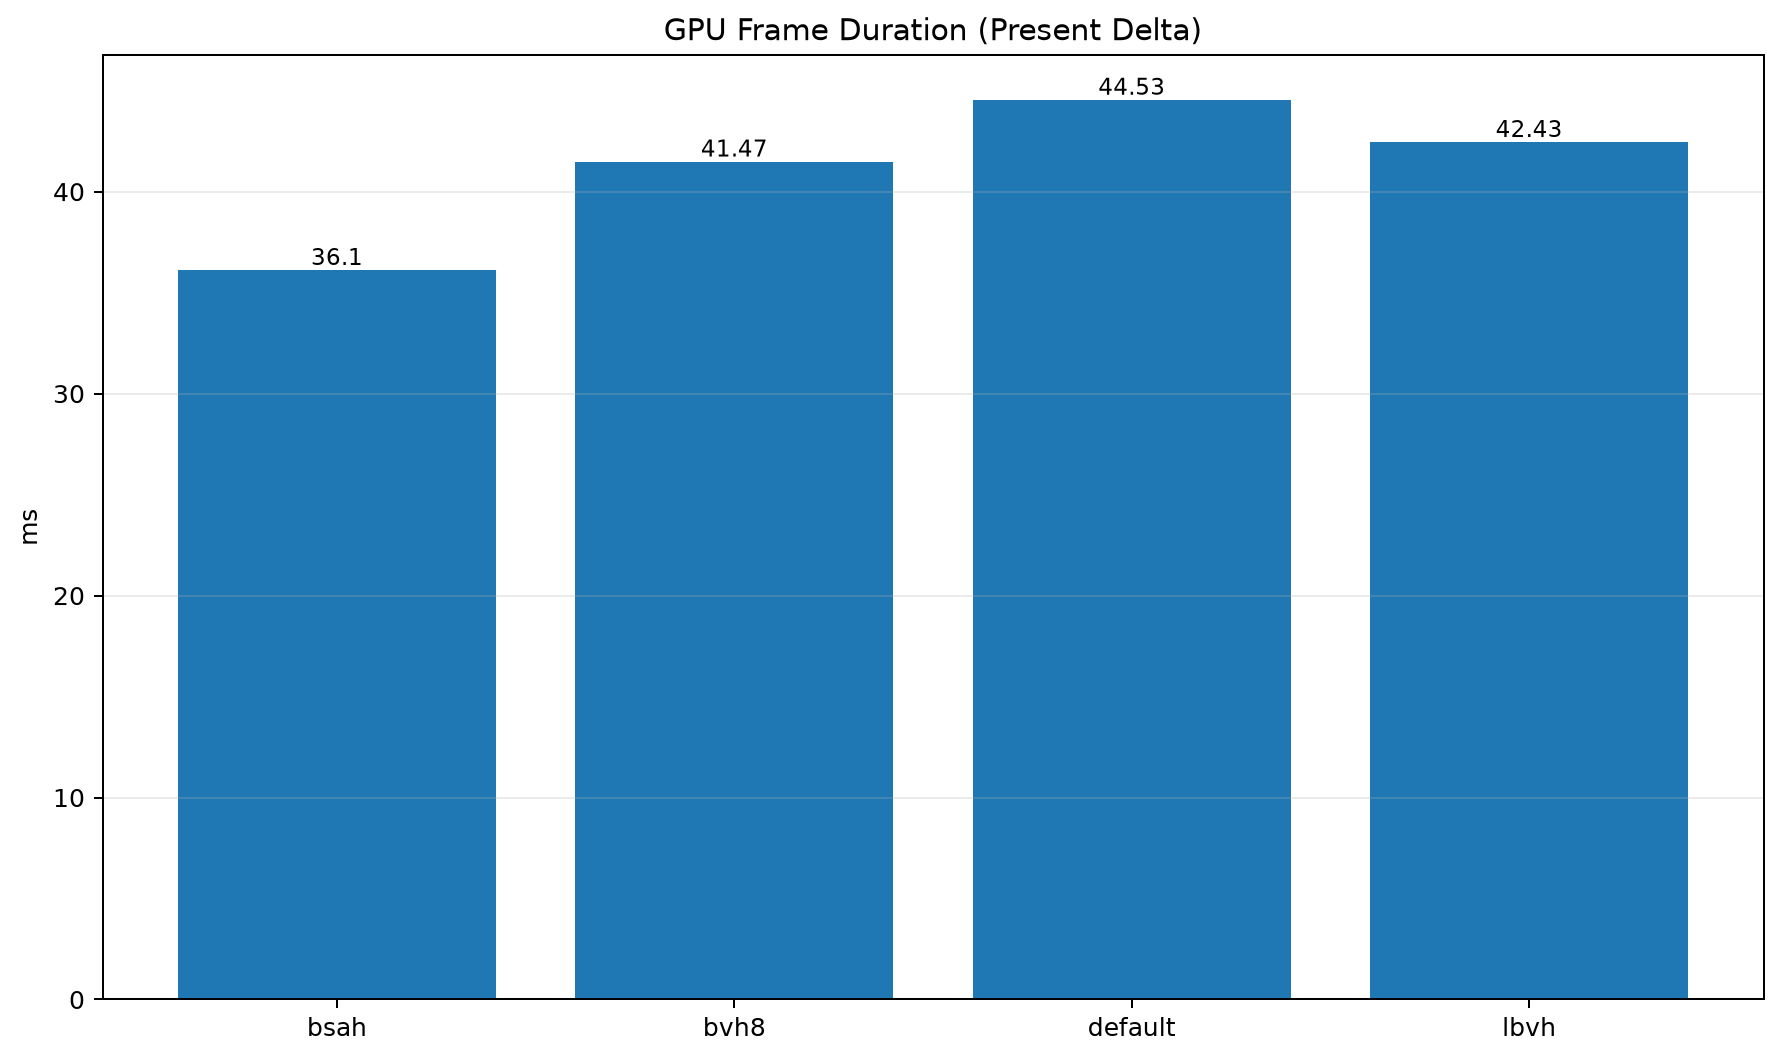
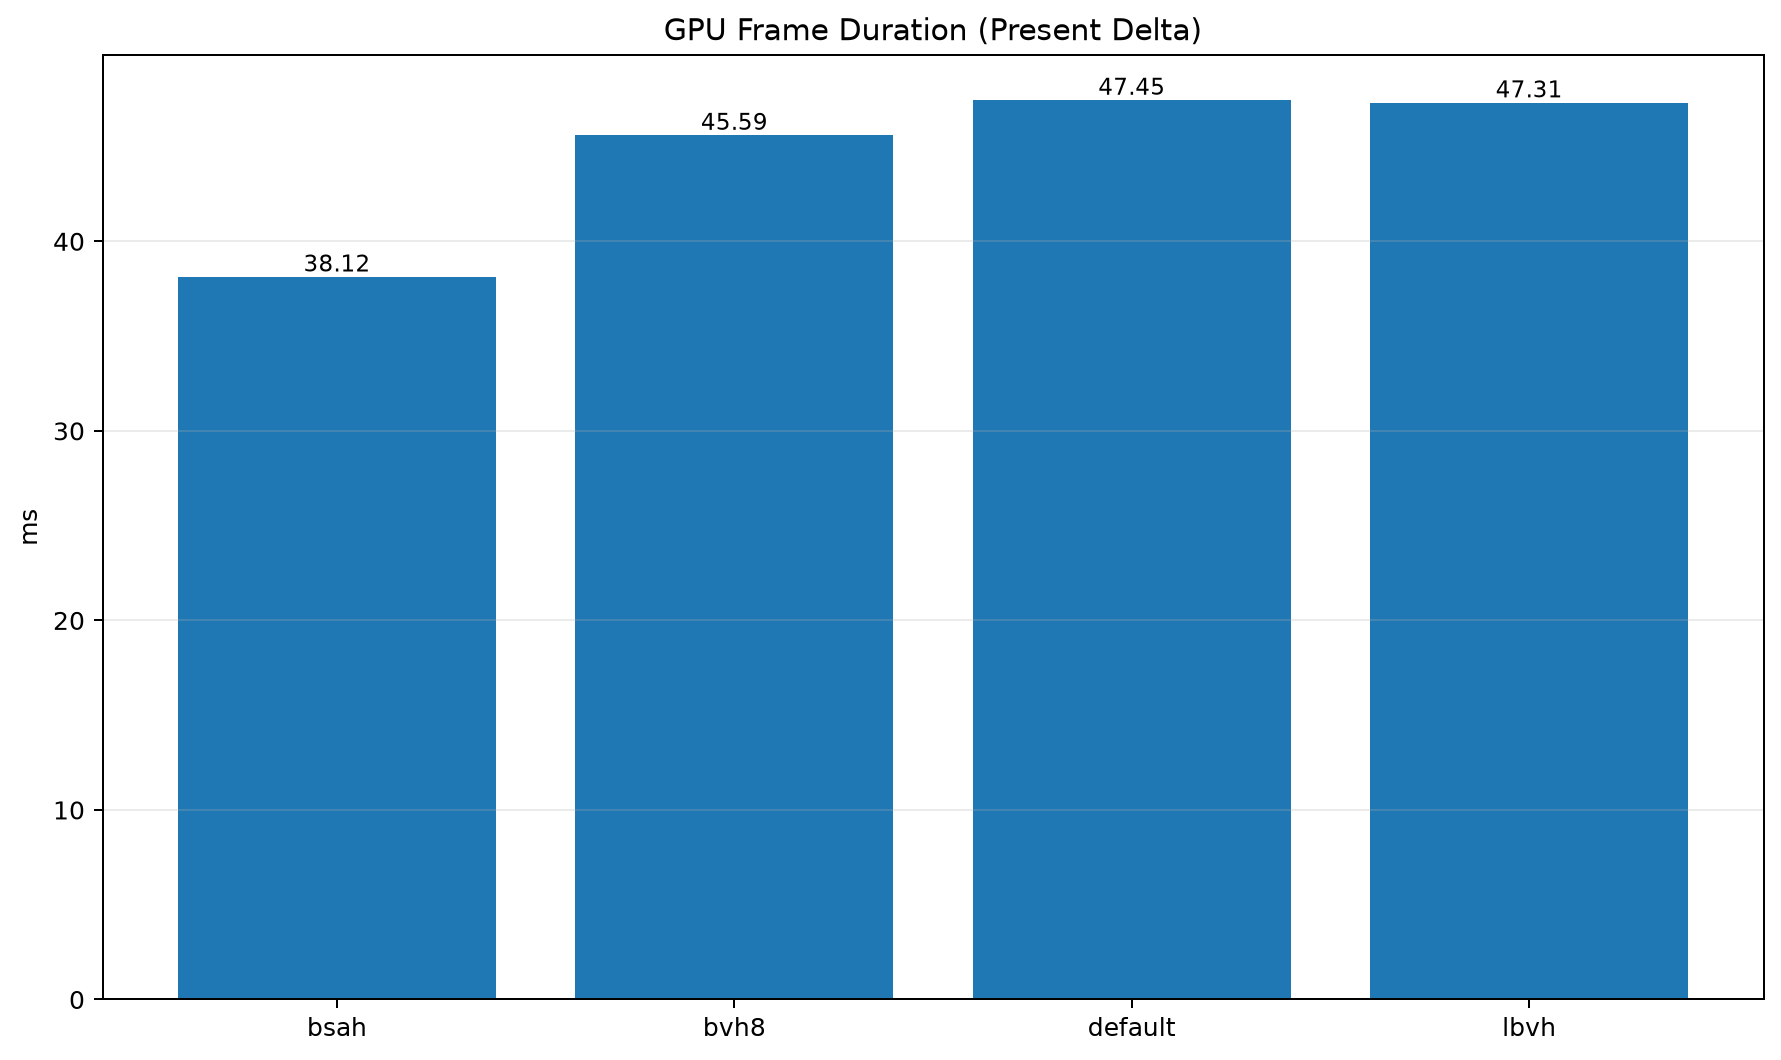
imgs

diff --git a/conteudo/conclusao.tex b/conteudo/conclusao.tex
@@ -3,14 +3,15 @@
 Neste capitulo sera apresentado os resultados e as discucoes sobre as simulacoes das \gls{bvh}.
 
 
-\subsection{Tamnaho da esrtutura}
+\subsection{Consumo de Memoria}
 
+vamos comecar observando o tamanho das estruturas geradas
 
 \subsection{\gls{cpu}}
 
 \subsubsection{\gls{blas}}
 
-Comencando com as metricas de construcao das \gls{blas}. Diferente da \gls{tlas} que varia pouco o seu tamanho, aqui temos estruturas que representam de oito vertices ate mais de mil, por isso foi feito uma media e a escala vai estar menor que a \gls{tlas}.
+Comencando com as metricas de construcao das \gls{blas}. Diferente da \gls{tlas} que varia pouco o seu tamanho, aqui temos estruturas que representam de oito vertices ate mais de mil, por isso que a diferenca da media pode ser muito maior.
 
 Analisando a figura \ref{blas_build_cpu}, facilmente reparamos que \gls{bsah} levou mais de duas vezes o tempo das demais, com o objetivo de gerar uma arvore de melhor qualidade. E a \gls{bvh8} consegui ser 40\% mais rapida que as demais, o que deve ser justificado por gerar uma arvore mais rasa o que reduz a quantidade de repeticoes para construir a arvore.
 
@@ -66,7 +67,9 @@ O grafico de tempo de upload não sera apresentado,o motivo é que nem todo o te
 
 Observando a diferenca entre cada \gls{bvh} no grafico de colunas podemos analisar como elas influenciaram cada execucao. Como o Sistema estava sem nenhuma limitacao de frames, a duracao do frame esta limitada a capacidade da \gls{gpu} de gerar um novo frame.
 
-Ate fiz alguns testes anteriores e quando a cena estava com menos de 10 instancias, foi possivel chegar a duracao de frames menores de que 5 ms.
+Olhando a imagem podemos perceber uma vantagem da \gls{bsah}, isso mostrar que investir recurso de \gls{cpu} na qualidade da arvore vale a penas, precisamos manter em mante que esse investimento nao pode ultrapacar o valor da arvore, e no caso ela so vale se estiver pronta quando a \gls{gpu} precisar dela.
+
+A \gls{bvh8} mostrou um desenpenho levemente melhor, seria interesantes testar outras distribuicoes como \gls{bvh4} ou \gls{bvh16}, ou aplicar uma heuristica para achar uma tamanho de arvore ideal para a situacao.
 
 \begin{figure}[htb]
     \caption{Grafico de barras sobre tempo medio de producao do quadro em \gls{gpu}}
@@ -93,6 +96,82 @@ Em questao do frame de \gls{cpu}, a aplicacao n tem uma forma de gerar mais que 
         }
     }
 \end{figure}
+
+Ate fiz alguns testes anteriores e quando a cena estava com menos de 10 instancias, foi possivel chegar a duracao de frames menores de que 5 ms.
+
+
+
+\subsection{Ocupação \gls{sm} e \textit{warps}}
+
+
+
+\subsubsection{\textit{warps}}
+
+Uma forma de analisar o comportamento dos \glspl{sm} durante a execução é observar a quantidade de \textit{warps} de pixels. Pode ser analisado o número médio de \textit{warps} por ciclo. Essa informação permite relacionar a quantidade de \textit{warps} ativos com os ciclos de execução da \gls{gpu}. Tambem podemos olhar essa atividade como um percentual de \textit{throughput}, permitindo observar a utilização desse recurso em relação à capacidade considerada pela métrica \cite{nvidia_nsight_systems}.
+
+\begin{figure}[htb]
+    \caption{Quantidade média de \textit{warps} de pixels simultaneamente ativos por ciclo}
+    \centering
+    {\parbox{16cm}
+        {
+            \includegraphics[width=1\textwidth]{images/pixel_warps_in_flight_avg_warps_per_cycle.png}
+            \label{fig:pixel_warps_in_flight_avg_warps_per_cycle}
+            \hspace{0.0cm}{Fonte: Elaborado pelo autor, utilizando Python matplotlib}
+        }
+    }
+\end{figure}
+
+\begin{figure}[htb]
+    \caption{Quantidade média de \textit{warps} de pixels simultaneamente ativos por ciclo como percentual}
+    \centering
+    {\parbox{16cm}
+        {
+            \includegraphics[width=1\textwidth]{images/pixel_warps_in_flight_throughput_percent.png}
+            \label{fig:pixel_warps_in_flight_throughput_percent}
+            \hspace{0.0cm}{Fonte: Elaborado pelo autor, utilizando Python matplotlib}
+        }
+    }
+\end{figure}
+
+A \gls{bvh8} conseguiu apresentar um valor bem baixo de atividade, comparado com os demais. Porem a \gls{bvh8} ainda consegue manter o tempo de frame menor que a \gls{bvh} comum e que a \gls{lbvh}.
+
+
+
+\subsubsection{\glspl{sm}}
+
+Para entender melhor a ocupacao da \gls{gpu}, podemos olhar para o responsavel pelo agendamento das operacoes.
+
+\begin{figure}[htb]
+    \caption{Percentual de emissão de instruções média dos \glspl{sm} que está sendo utilizado durante a execução}
+    \centering
+    {\parbox{16cm}
+        {
+            \includegraphics[width=1\textwidth]{images/sm_issue_throughput_percent.png}
+            \label{fig:sm_issue_throughput_percent}
+            \hspace{0.0cm}{Fonte: Elaborado pelo autor, utilizando Python matplotlib}
+        }
+    }
+\end{figure}
+
+\begin{figure}[htb]
+    \caption{Grafico comluna sobre quanto os \glspl{sm} da \gls{gpu} estão efetivamente ocupados}
+    \centering
+    {\parbox{16cm}
+        {
+            \includegraphics[width=1\textwidth]{images/sms_active_throughput_percent.png}
+            \label{fig:sms_active_throughput_percent}
+            \hspace{0.0cm}{Fonte: Elaborado pelo autor, utilizando Python matplotlib}
+        }
+    }
+\end{figure}
+
+Aqui podemos ver que a carga de trabalho da \gls{gpu} estava praticamente igual, tendo o \gls{bvh8} como pior desenpenho.
+
+\subsection{Consumo de Energia e Temperatura}
+
+A temperatura ficou proxima de 60C, porem por nao ter um ambiente controlado, mesmo testando a mesma \gls{bvh} o valor medio mudava em quase 2 graus entao a precisao nao é boa o suficiente para ser considerada. Ainda podemos preditar alguns fatos como quanto menos recurso a \gls{gpu} utilizar para gerar o frame de forma mais rapida possivel, menor a temperatura atingida.
+
+De certa forma é errado medir temperatura e consumo dessa forma, a aplicacao não da o devido bonus de conseguir terminar o frame antes. Entao o que estamos fazendo aqui é dizer, independente da quantidade produzida damos merito a quem gastou menos
 
 
 

diff --git a/conteudo/desenvolvimento.tex b/conteudo/desenvolvimento.tex
@@ -400,3 +400,5 @@ O arquivo final contém, portanto, os dados necessários para comparar as métri
 Os dois \textit{scripts} são executados para os arquivos de todas as \glspl{bvh} avaliadas neste trabalho. A partir dos arquivos \textit{*\_report\_analise.xlsx} gerados para cada estrutura, é possível reunir os dados e gerar gráficos que facilitam a visualização e a comparação das métricas.
 
 Para isso, foi desenvolvido um terceiro \textit{script Python}, responsável por reunir os arquivos de análise das diferentes \glspl{bvh} e gerar imagens com os gráficos correspondentes. Esses gráficos auxiliam na identificação de diferenças entre as estruturas e facilitam a análise dos resultados obtidos durante os experimentos.
+
+Ambos os \textit{scripts} foram desenvolvidos com o auxílio de inteligência artificial generativa. Desse modo, embora a consistência de todas as métricas apresentadas tenha sido verificada, os \textit{scripts} geram dados adicionais que não foram utilizados neste trabalho, sendo necessária a validação manual desses valores ao menos uma vez, para futuros trabalhos.
